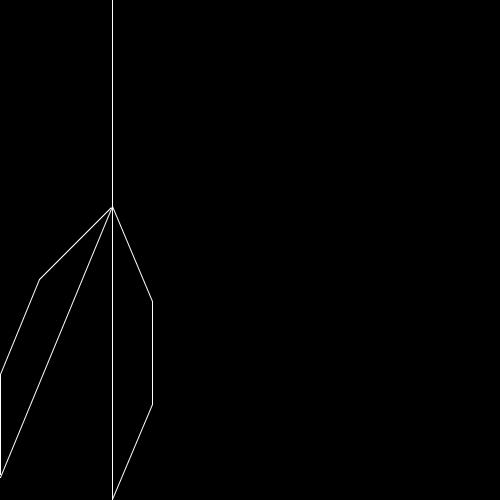
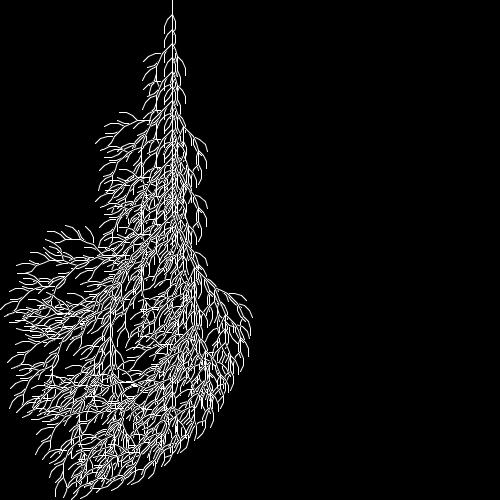
fixed tree branch joining bug - branches are now open

Changed region(s): [[0.0, 0.03, 0.51, 1.0], [0.0, 0.87, 0.03, 0.96]]

diff --git a/lsystems/generator.py b/lsystems/generator.py
@@ -40,7 +40,7 @@ class Generator:
                     root = self.stack.pop(-1)
                     tort.pos = root[:2]
                     tort.angle_deg = root[2]
-                    tort.update_history()
+                    tort.prev_draw = False
         return steps, tort.get_history(), self.stack
 
 
@@ -57,7 +57,7 @@ if __name__ == "__main__":
     # test_lsys = Lsys(["F", "f", "+", "-"], {"F": "F-F+F"})
     # test_gen = Generator(test_lsys, "F-F-F-F", 90, 4)
     test_lsys = Lsys(["F", "f", "+", "-", "[", "]"], {"F": "FF-[-F+F+F]+[+F-F-F]"})
-    test_gen = Generator(test_lsys, "F", 22.5, 1)
+    test_gen = Generator(test_lsys, "F", 22.5, 4)
     steps, history, stack = test_gen.generate_tortoise()
     # print(steps)
     for i in stack:
